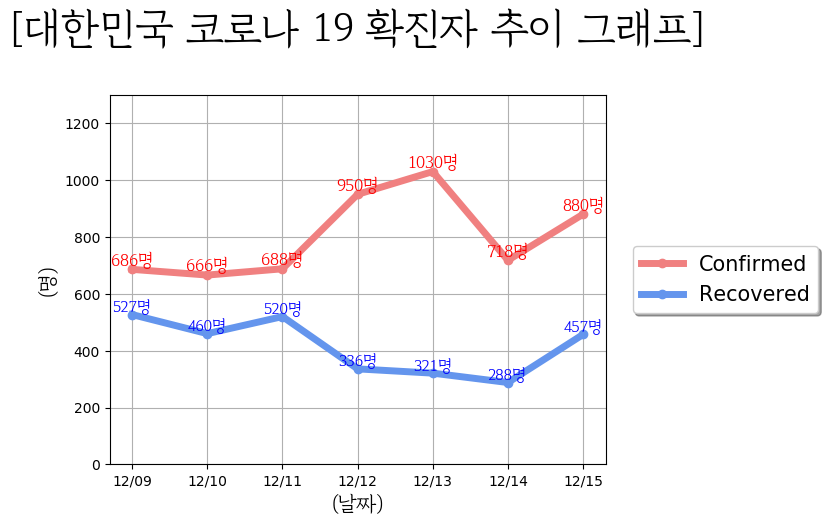
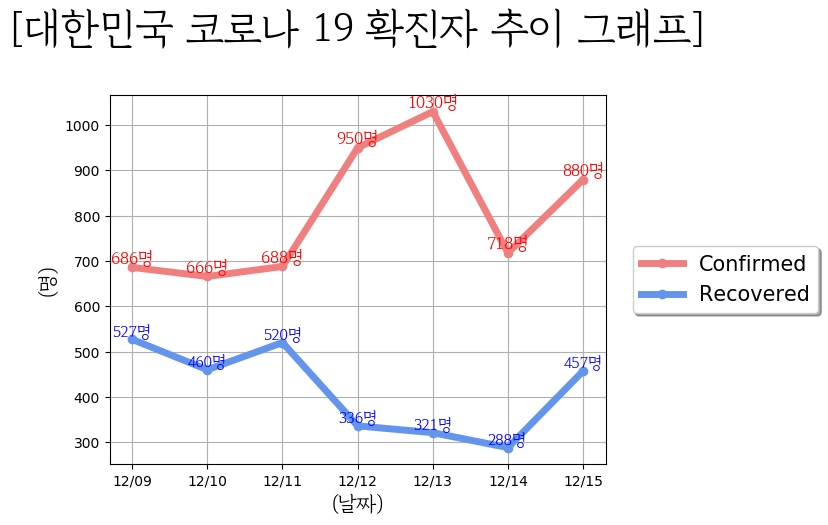
update

diff --git a/server/korea_response.py b/server/korea_response.py
@@ -17,9 +17,9 @@ def KoreaCorona(param):
 치명률 %.2f%%""" % (row[0],
                  row[1], row[5],
                  row[2], row[7],
-                 row[6],
+                 row[4],
                  row[3],
-                 int(row[6]) / int(row[1]) * 100)  # 치명률: (사망자/ 확진자)*100
+                 int(row[4]) / int(row[1]) * 100)  # 치명률: (사망자/ 확진자)*100
 
     if param == "현황 보기":
         return KoreadataSendCard(messages,

diff --git a/server/korea_graph.py b/server/korea_graph.py
@@ -51,7 +51,7 @@ try:
 
     plt.xlabel('(날짜)', fontproperties=fontprop, fontsize = 15)
     plt.ylabel('(명)', fontproperties=fontprop, fontsize = 15)
-    plt.ylim(0,1300)
+    #plt.ylim(0,1300)
     plt.legend(loc='center right', bbox_to_anchor=(1.45, 0.5), shadow = True, fontsize = 15)
     #font_name = fm.FontProperties(fname = font_path).get_name()
     #plt.legend(prop = {'family' : font_name, 'size':15})

diff --git a/server/chatbot.py b/server/chatbot.py
@@ -44,7 +44,6 @@ def update_db():
 #update_GlobalDB()
 sched = BackgroundScheduler({'apscheduler.timezone': 'Asia/Seoul'})
 #sched.add_job(update_db, 'cron', hours=24)
-# scheduling dbupdate at 6:00(pm) ervery day
 
 def update_korea():
     print("koreadb 업데이트 진행중")
